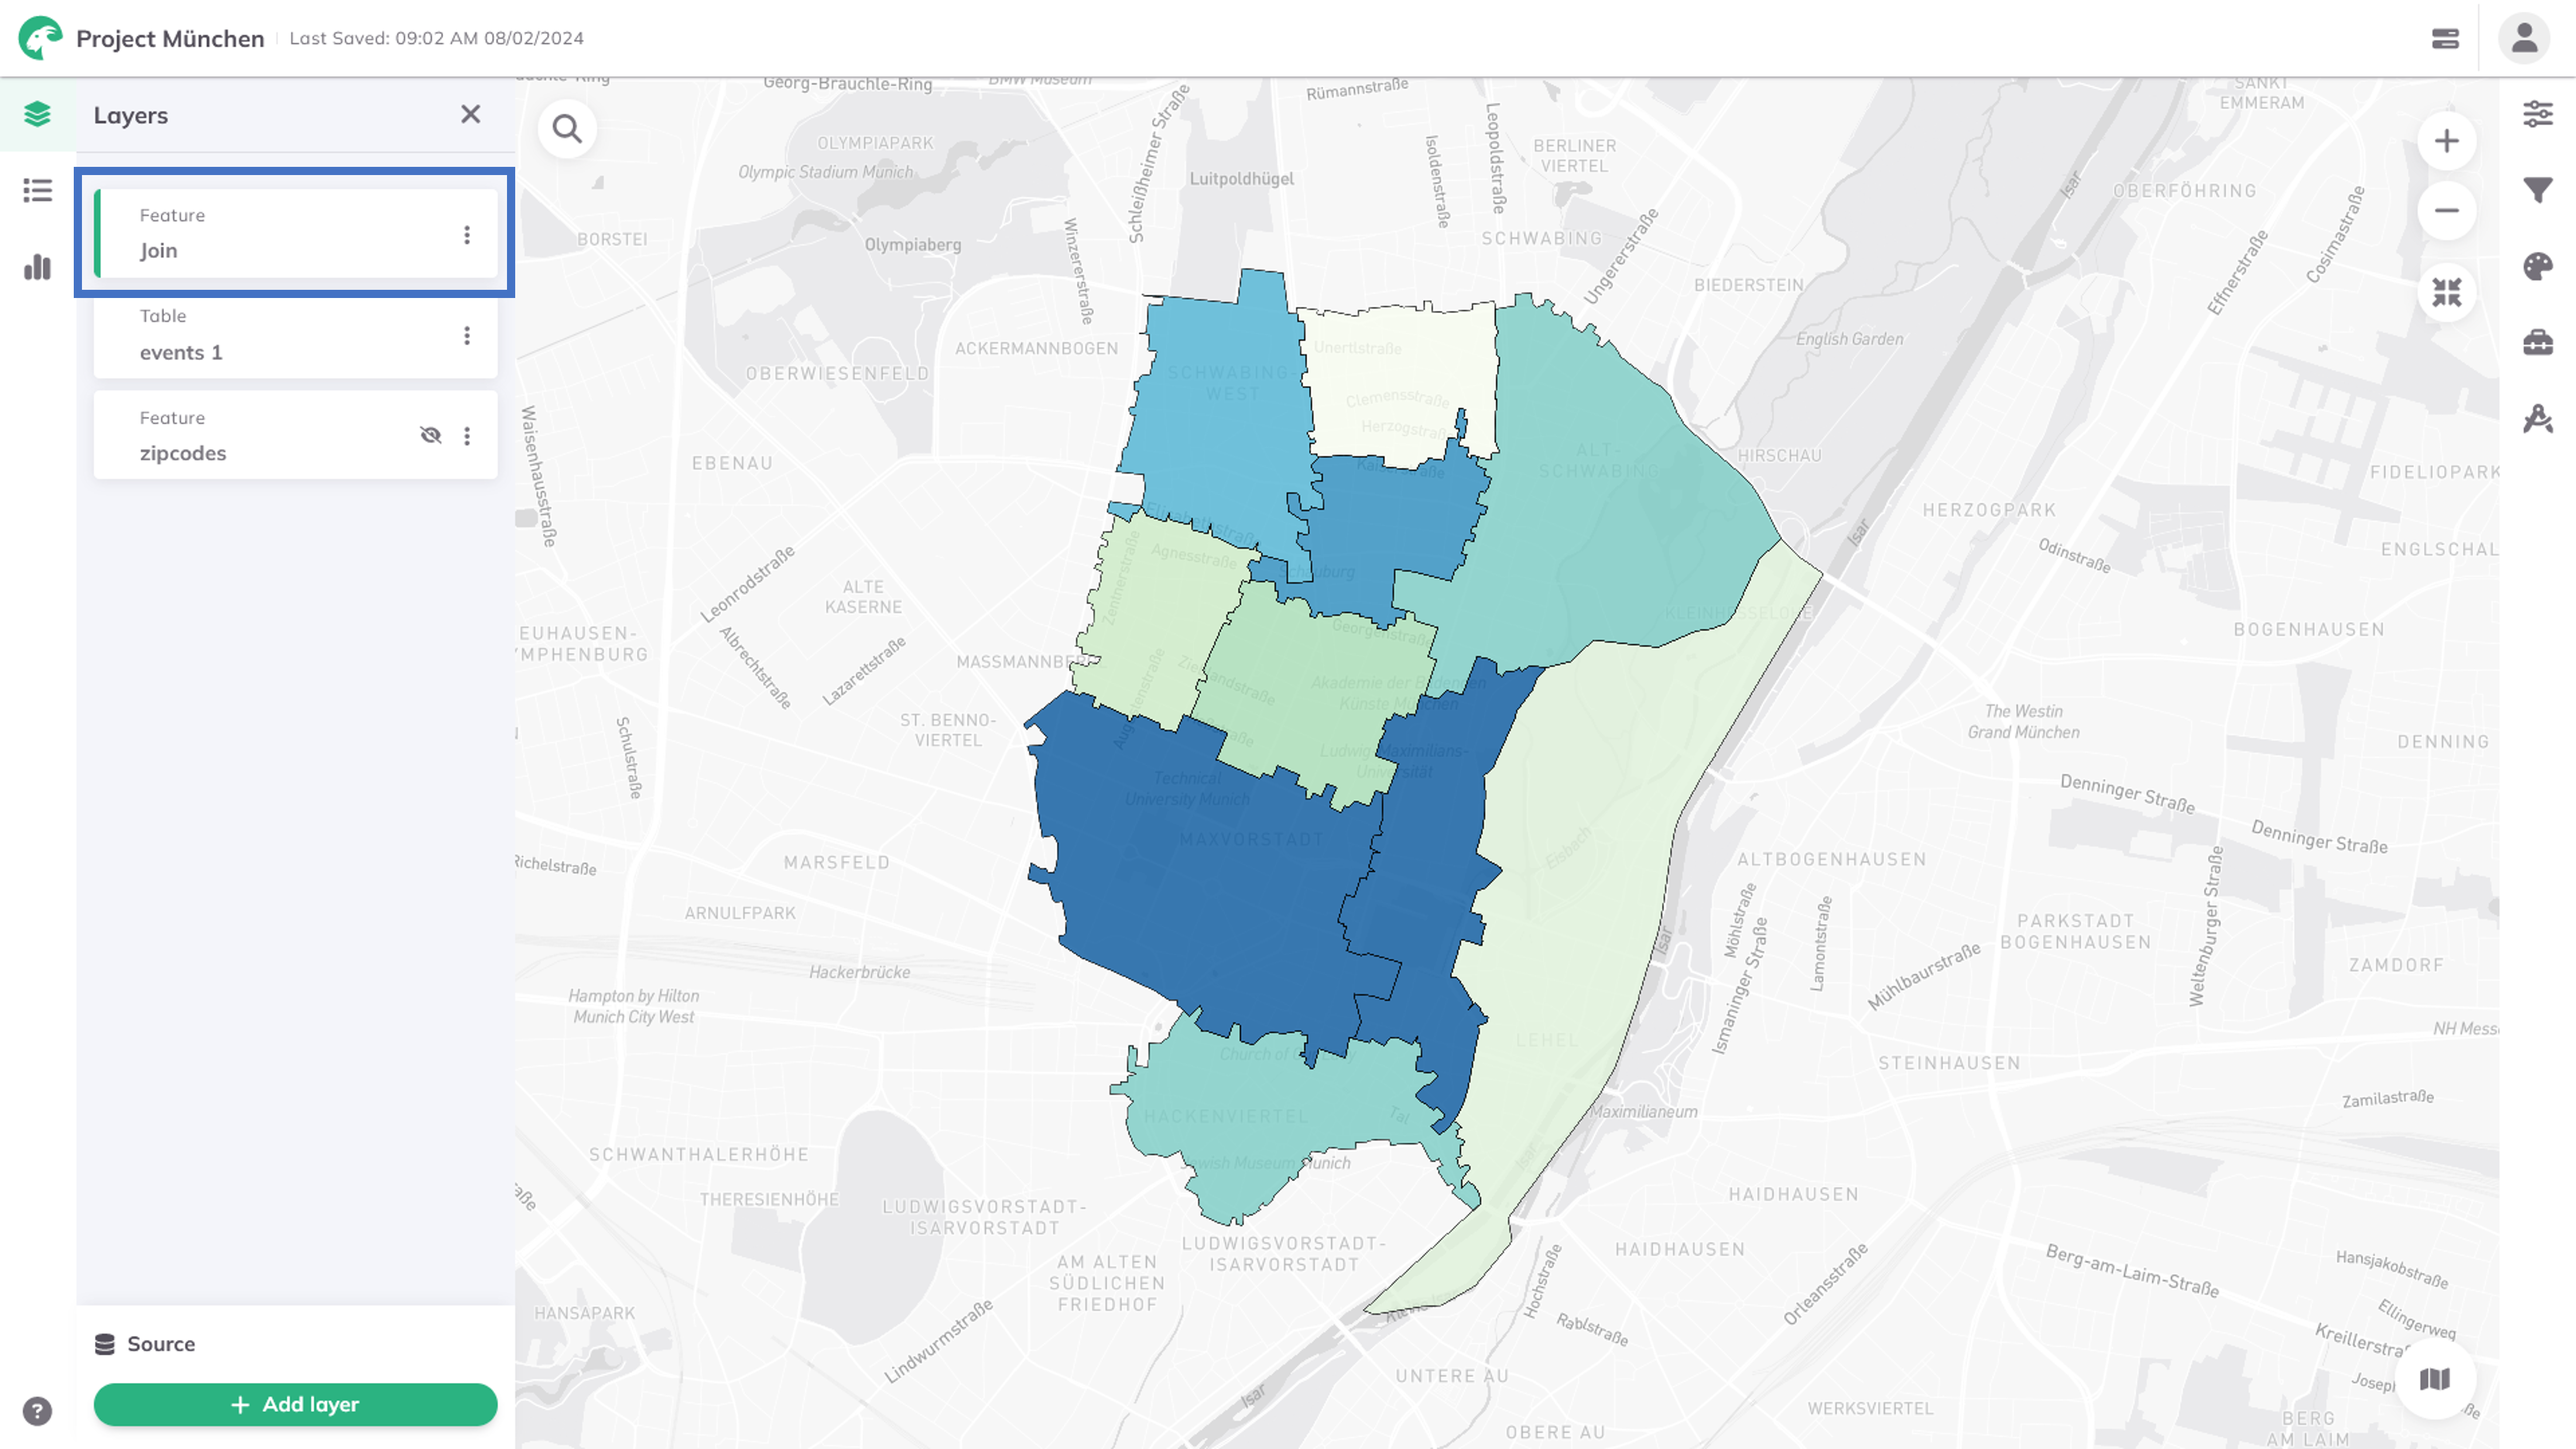
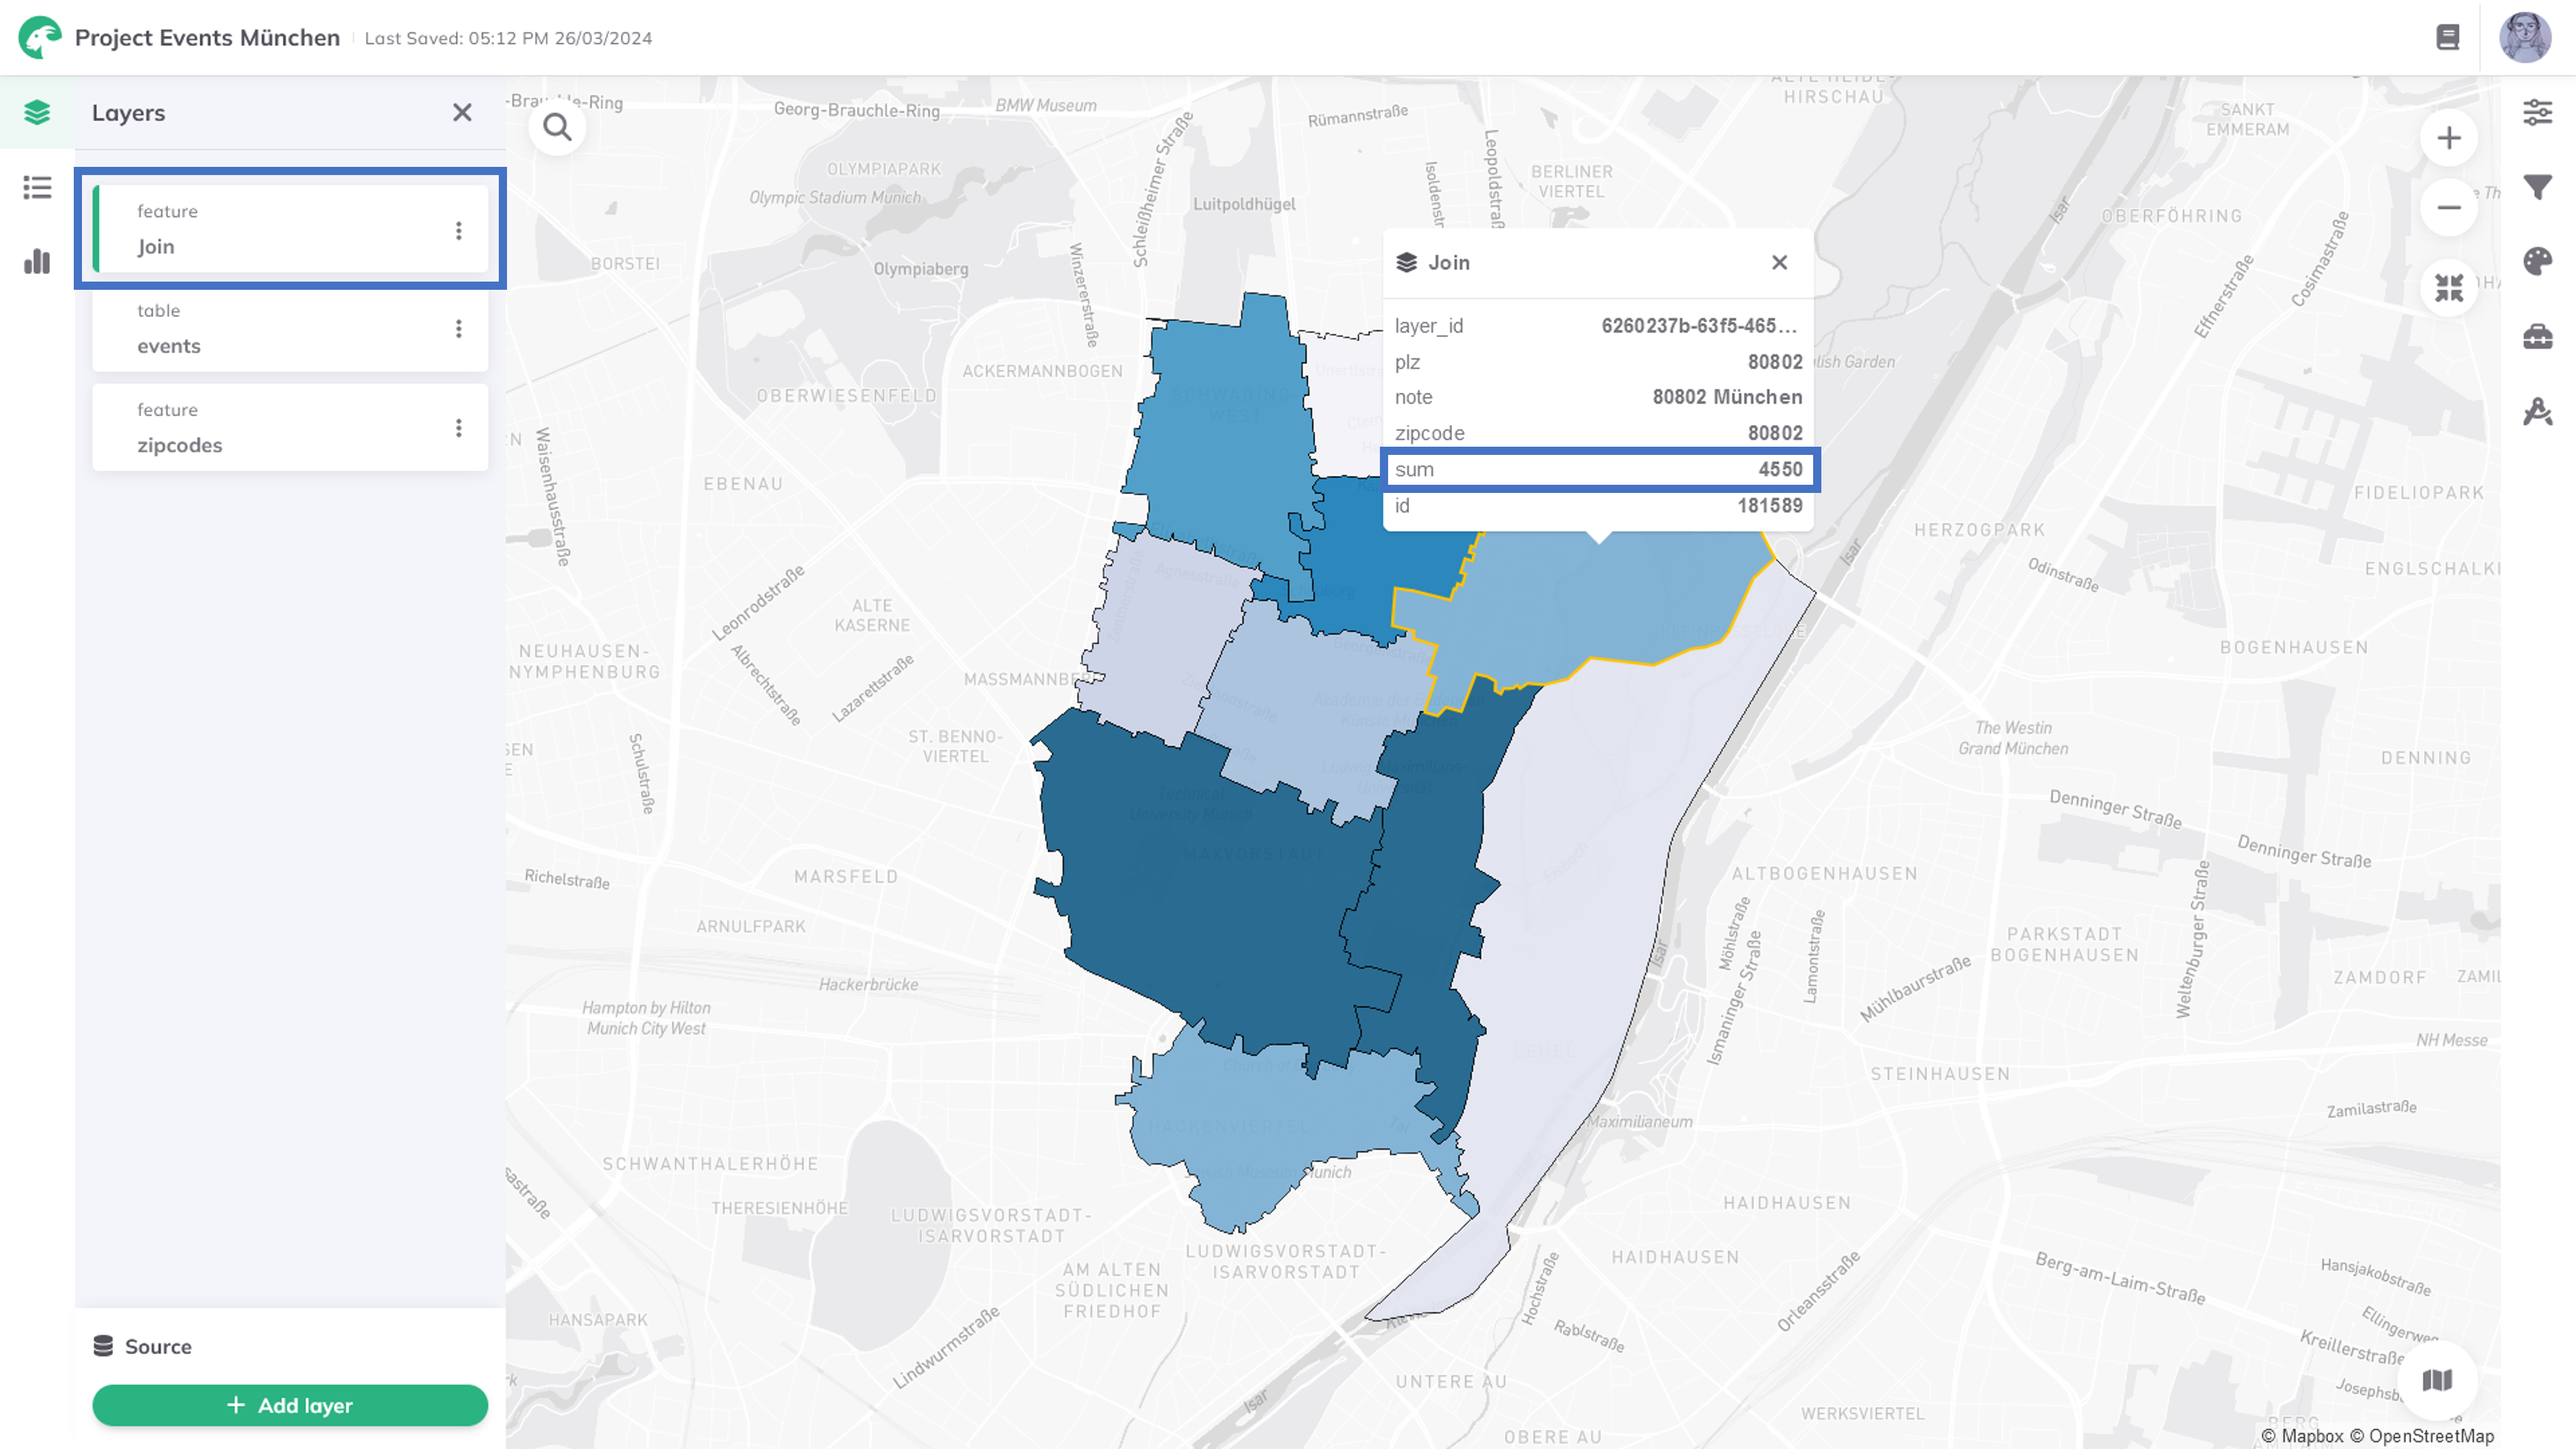
review join

diff --git a/docs/toolbox/data_management/join.md b/docs/toolbox/data_management/join.md
@@ -52,31 +52,31 @@ GOAT uses the **"Inner Join"** operation to calculate a join which combines rows
 
 <div class="step">
   <div class="step-number">3</div>
-  <div class="content">  Select your <code>Target Layer</code> (the primary table or layer to which you want to add additional data). </div>
+  <div class="content">  Select your <code>Target layer</code> (the primary table or layer to which you want to add additional data). </div>
 </div>
 
 <div class="step">
   <div class="step-number">4</div>
-  <div class="content">Select your <code>Join Layer</code> (the secondary table or dataset that contains the records and attributes to be inserted into the Target Layer). </div>
+  <div class="content">Select your <code>Join layer</code> (the secondary table or dataset that contains the records and attributes to be inserted into the Target Layer). </div>
 </div>
 
 ### Fields to match
 
 <div class="step">
   <div class="step-number">5</div>
-  <div class="content">Define the attribute which you like to use for matching the records of both layers. Therefore, pick your <code>Target Attribute</code>. </div>
+  <div class="content">Select the <code>Target attribute</code> of the target layer, which you like to use for matching the records of both layers.</div>
 </div>
 
 <div class="step">
   <div class="step-number">6</div>
-  <div class="content"> Select the same attribute of the Join Layer as the <code>Join Attribute</code>. </div>
+  <div class="content"> Select the matching attribute of the Join Layer as the <code>Join attribute</code>. </div>
 </div>
 
 ### Statistics
 
 <div class="step">
   <div class="step-number">7</div>
-  <div class="content"> Select the statistical <code>Method</code> to be used to join the attribute. </div>
+  <div class="content"> Select the <code>Statistical method</code> to be used to join the attribute. </div>
 </div>
 
 You can choose between several statistical operations. Some methods are only available for specific data types. The following list provides an overview of the available methods:
@@ -92,7 +92,7 @@ You can choose between several statistical operations. Some methods are only ava
 
 <div class="step">
   <div class="step-number">8</div>
-  <div class="content">Select the <code>Join Attribute</code> for which you like to apply the statistical operation.</div>
+  <div class="content">Select the <code>Statistics attribute</code> for which you like to apply the statistical operation.</div>
 </div>
 
 <div class="step">
@@ -105,7 +105,7 @@ You can choose between several statistical operations. Some methods are only ava
   
 <div class="step">
   <div class="step-number">10</div>
-  <div class="content">The result layer <b>"Join"</b> will be both added to the project and to the Datasets in your project folder.</div>
+  <div class="content">The result layer <b>"Join"</b> will be added to the project, as well as to the <a href="../../workspace/datasets">Datasets</a> in your workspace. This layer consist of the information of the target layer and an <b>additional column</b> showing the results from the <b>statistical operation</b>. You can see the attributes by clicking on one of the features in the map.</div>
 </div>
 
 
